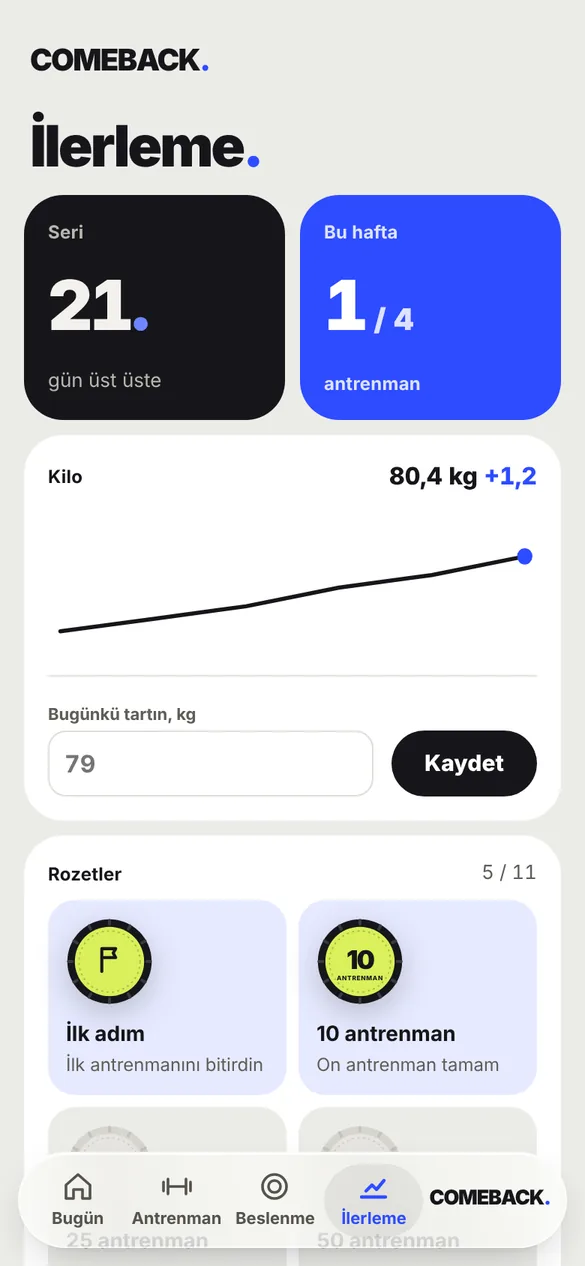
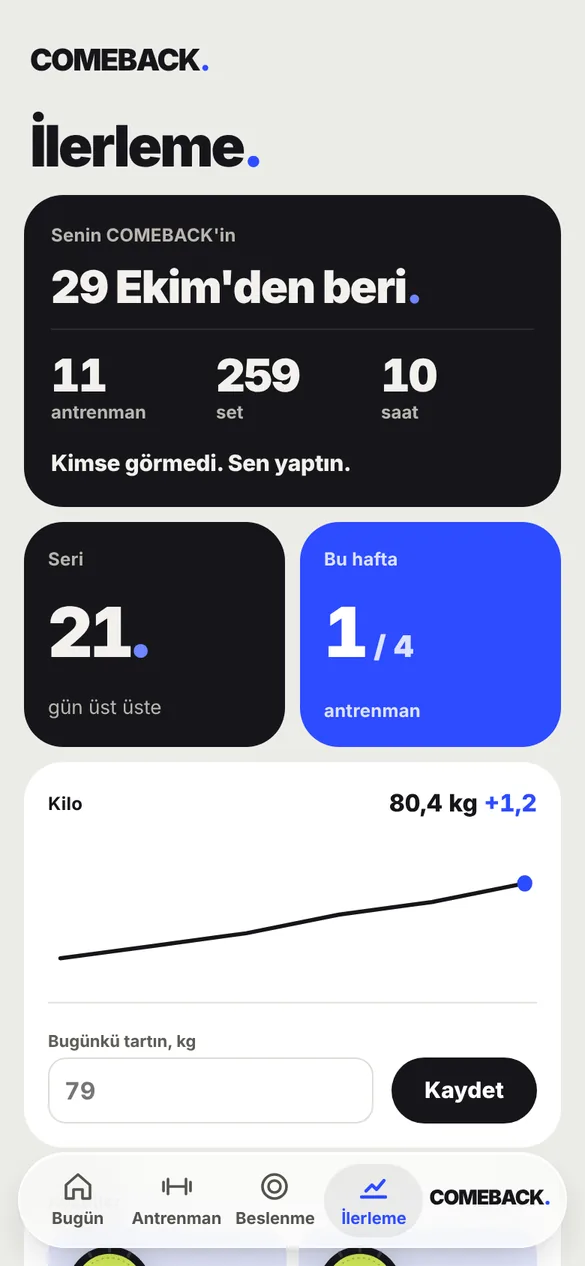
COMEBACK sitesi: telefon ekranları yenilendi (Bugün zor, gece modunda antrenman, Senin COMEBACK'in)
Claude-Session: https://claude.ai/code/session_01HRkPxeEPEnEWVgU7L6A85V

diff --git a/comeback-marka/index.html b/comeback-marka/index.html
@@ -385,8 +385,8 @@ footer{background:#000;color:#E8E6E0;padding:8px 0 calc(28px + env(safe-area-ins
     </div>
     <div class="telefonlar" id="telefonlar" aria-hidden="true">
       <div class="kat" id="kat">
-        <div class="tel on"><div class="giris-tel-on" style="width:100%;height:100%"><img src="img/bugun.webp?v=2" data-ekr="bugun" alt="" width="585" height="1266" fetchpriority="high"></div></div>
-        <div class="tel arka giris-tel-arka"><img src="img/seans.webp?v=2" data-ekr="seans" alt="" width="585" height="1266"></div>
+        <div class="tel on"><div class="giris-tel-on" style="width:100%;height:100%"><img src="img/bugun.webp?v=3" data-ekr="bugun" alt="" width="585" height="1266" fetchpriority="high"></div></div>
+        <div class="tel arka giris-tel-arka"><img src="img/seans.webp?v=3" data-ekr="seans" alt="" width="585" height="1266"></div>
       </div>
       <div class="cip c1"><span class="ik"><svg viewBox="0 0 24 24"><path d="M4 19h16M7 15l4-4 3 3 5-6"/></svg></span><span><span data-i="cip1">Yeni rekor</span><small data-i="cip1a">Squat 85 kg × 6</small></span></div>
       <div class="cip c2"><span class="ik"><svg viewBox="0 0 24 24"><circle cx="12" cy="13" r="8"/><path d="M12 9v4l2.5 2M9 2h6"/></svg></span><span><span data-i="cip2">Dinlenme bitti</span><small data-i="cip2a">Bir set daha</small></span></div>
@@ -452,7 +452,7 @@ footer{background:#000;color:#E8E6E0;padding:8px 0 calc(28px + env(safe-area-ins
               <li><svg viewBox="0 0 24 24"><path d="M5 12l5 5L20 7"/></svg><span data-i="a_4"><b>Bitince:</b> ne kadar zordu, nerede iyi hissettin, ağrı var mı; bir sonraki antrenman buna göre ayarlanır.</span></li>
             </ul>
           </div>
-          <div class="oz-gorsel limon"><div class="tel"><img src="img/seans.webp?v=2" data-ekr="seans" alt="Antrenman ekranı" width="585" height="1266" loading="lazy"></div></div>
+          <div class="oz-gorsel limon"><div class="tel"><img src="img/seans.webp?v=3" data-ekr="seans" alt="Antrenman ekranı" width="585" height="1266" loading="lazy"></div></div>
         </article>
         <article class="ozellik" data-ekr="beslenme" data-r="kobalt">
           <div class="oz-yazi limon">
@@ -477,7 +477,7 @@ footer{background:#000;color:#E8E6E0;padding:8px 0 calc(28px + env(safe-area-ins
               <li><svg viewBox="0 0 24 24"><path d="M5 12l5 5L20 7"/></svg><span data-i="i_3"><b>Yapay zekâ koç:</b> programını yorumlar, sorularını cevaplar; kendi tarzını seçersin.</span></li>
             </ul>
           </div>
-          <div class="oz-gorsel limon"><div class="tel"><img src="img/ilerleme.webp?v=2" data-ekr="ilerleme" alt="İlerleme ekranı" width="585" height="1266" loading="lazy"></div></div>
+          <div class="oz-gorsel limon"><div class="tel"><img src="img/ilerleme.webp?v=3" data-ekr="ilerleme" alt="İlerleme ekranı" width="585" height="1266" loading="lazy"></div></div>
         </article>
         <article class="ozellik" data-ekr="rehber" data-r="koyu">
           <div class="oz-yazi">
@@ -495,9 +495,9 @@ footer{background:#000;color:#E8E6E0;padding:8px 0 calc(28px + env(safe-area-ins
       <div class="hk-sahne" id="sahne" data-r="kobalt" aria-hidden="true">
         <div class="hk-tel"><div class="ekranlar">
           <img class="gor" src="img/menu.webp?v=2" data-ekr="menu" alt="" width="585" height="1266">
-          <img src="img/seans.webp?v=2" data-ekr="seans" alt="" width="585" height="1266" loading="lazy">
+          <img src="img/seans.webp?v=3" data-ekr="seans" alt="" width="585" height="1266" loading="lazy">
           <img src="img/beslenme.webp?v=2" data-ekr="beslenme" alt="" width="585" height="1266" loading="lazy">
-          <img src="img/ilerleme.webp?v=2" data-ekr="ilerleme" alt="" width="585" height="1266" loading="lazy">
+          <img src="img/ilerleme.webp?v=3" data-ekr="ilerleme" alt="" width="585" height="1266" loading="lazy">
           <img src="img/rehber.webp?v=2" data-ekr="rehber" alt="" width="585" height="1266" loading="lazy">
         </div></div>
         <div class="hk-sayac"><i class="on"></i><i></i><i></i><i></i><i></i></div>
@@ -729,7 +729,8 @@ footer{background:#000;color:#E8E6E0;padding:8px 0 calc(28px + env(safe-area-ins
   function uygula(d) {
     var s = d === 'en' ? EN : TR;
     document.querySelectorAll('[data-i]').forEach(function (el) { var k = el.getAttribute('data-i'); if (s[k] != null) el.innerHTML = s[k]; });
-    document.querySelectorAll('img[data-ekr]').forEach(function (im) { im.src = 'img/' + im.dataset.ekr + (d === 'en' ? '-en' : '') + '.webp?v=2'; });
+    var EKR_TR = { bugun: 3, seans: 3, ilerleme: 3 };
+    document.querySelectorAll('img[data-ekr]').forEach(function (im) { im.src = 'img/' + im.dataset.ekr + (d === 'en' ? '-en' : '') + '.webp?v=' + (d === 'en' ? 2 : (EKR_TR[im.dataset.ekr] || 2)); });
     document.documentElement.lang = d; document.title = BASLIK[d];
     document.querySelector('meta[name=description]').content = ACIK[d];
     document.getElementById('dilBayrak').innerHTML = BAYRAK[d]; document.getElementById('dilKod').textContent = d.toUpperCase();
